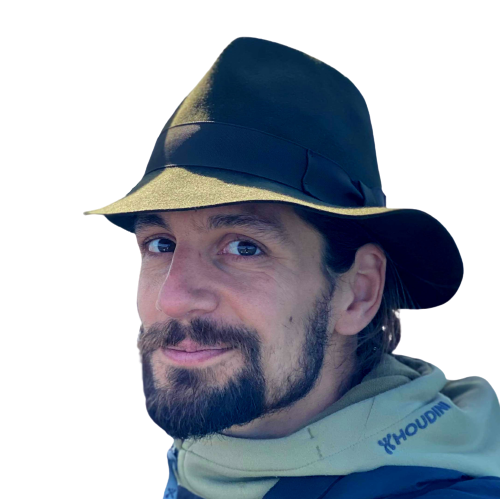
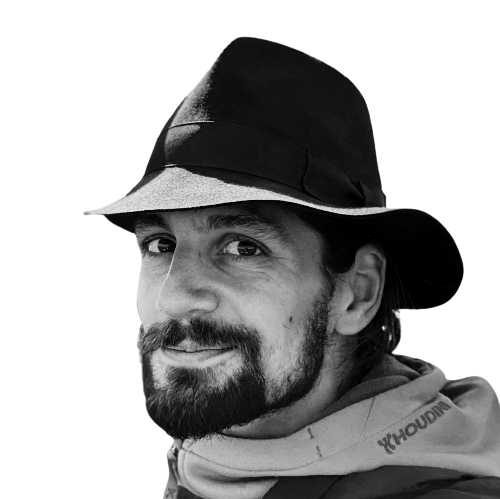
Added title, Edit colors

diff --git a/index.html b/index.html
@@ -12,6 +12,7 @@
     <link rel="preconnect" href="https://fonts.gstatic.com" crossorigin>
     <link href="https://fonts.googleapis.com/css2?family=Jost:ital,wght@0,100;0,300;0,400;1,600&display=swap" rel="stylesheet">    
     <link rel="stylesheet" href="src/style.css">
+    <title>Nicholas Peters Portfolio</title>
   </head>
   
     <body class="tracking-widest leading-6 text-blue1 bg-powderBlue ">
@@ -19,7 +20,7 @@
     <!--  Nav  -->
     <header class="w-screen" id="header">
       <nav class="fixed bottom-6 sm:top-0 h-16 sm:h-20 sm:mt-10 w-screen p-2 z-20 flex justify-between">
-        <div class="flex justify-center items-center p-1 px-4 rounded-full bg-powderBlue border border-white mx-auto shadow-md shadow-transparentBlack">
+        <div class="flex justify-center items-center p-1 px-4 rounded-full bg-gradient-to-t from-white to-lightGrey border border-white mx-auto shadow-md shadow-transparentBlack">
           <a href="#header" class="m-1 transition-all hover:text-fire">Home</a>
           <a href="#about" class="m-1 transition-all hover:text-fire">About</a>
           <img src="/img/logo.svg" alt="Logo" height="75" width="75"
@@ -38,7 +39,7 @@
         textAppear invisible">
           Nicholas:<br />&nbsp;&nbsp;Front End<br />&nbsp;&nbsp;Developer
         </h1>
-        <img src="img/nicholas-bw.png" alt="Profile Image" class="h-36 sm:h-56 rounded-full -z-10 opacity-80" />
+        <img src="img/nicholas-peters.png" alt="Profile Image" class="h-36 sm:h-56 rounded-full -z-10 opacity-80" />
       </div>
       <h2 class="pt-8 text-xl sm:text-2xl max-w-md [text-shadow:_1px_1px_0_rgb(255_255_255_/_40%)]">
         Creating intuitive and accessible web experiences
